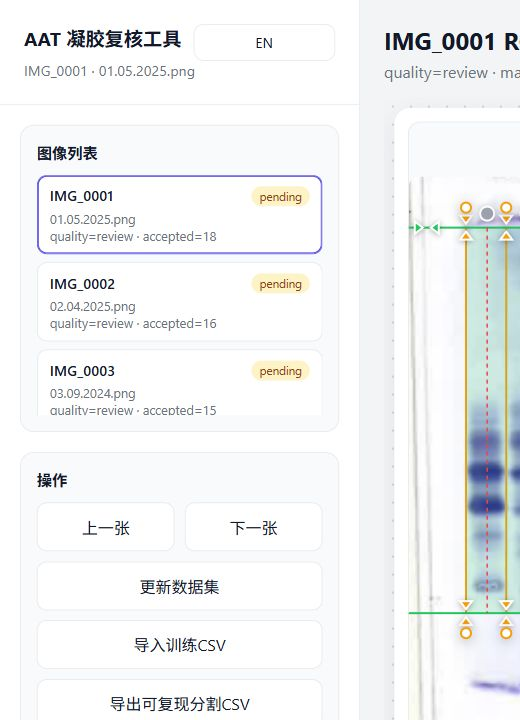
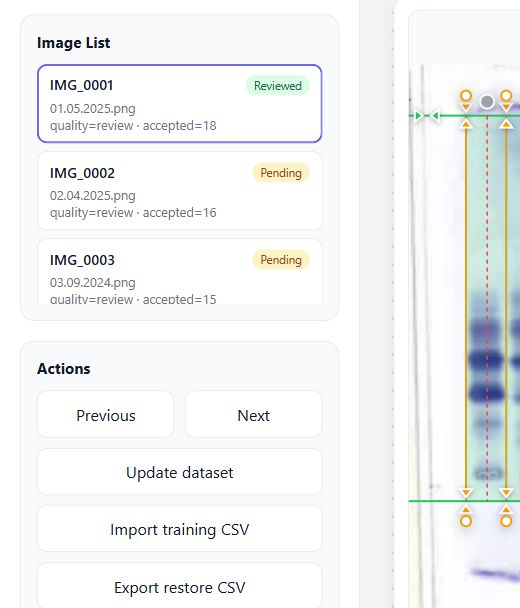
Use English README screenshots

diff --git a/README.md b/README.md
@@ -10,7 +10,7 @@ This repository contains the code, configuration, and documentation needed to ru
 - assigns stable `IMG_0001` style image IDs
 - generates vertical projection metadata
 - runs the v6 horizontal-ROI-aware lane boundary pipeline
-- serves a local FastAPI + static Web review interface
+- serves a local FastAPI and static Web review interface
 - lets users adjust shared ROI and lane boundaries
 - supports lane-level category annotation
 - exports reviewed geometry and training CSV files
@@ -60,41 +60,29 @@ python -m venv .venv
 .\.venv\Scripts\python.exe -m uvicorn app:app --app-dir Web --host 127.0.0.1 --port 8000
 ```
 
-## Screenshots / 界面截图
+## Screenshots
 
-The screenshots below show the internal research review workflow with real example gel images from the private project environment.
-
-以下截图展示 private 仓库内部协作场景下的真实凝胶图复核流程；原始图片仍不提交到 Git。
+The screenshots below show the internal research review workflow with real example gel images from the private project environment. Raw source images are still excluded from Git.
 
 ![Main review interface](docs/assets/screenshots/01-main-review-interface.png)
 
 Main review interface with the image list, automatic ROI, and lane boundary overlays.
 
-主复核界面包含图像列表、自动 ROI 区域和泳道边界叠加结果。
-
 ![Update dataset action](docs/assets/screenshots/02-update-dataset-action.png)
 
-The `更新数据集` action rescans local images and reruns the automatic v6 segmentation pipeline.
-
-`更新数据集` 会重新扫描本地图片，并重新运行 v6 自动分割流程。
+The `Update dataset` action rescans local images and reruns the automatic v6 segmentation pipeline.
 
 ![ROI and lane review](docs/assets/screenshots/03-roi-and-lane-review.png)
 
 ROI and lane overlays are reviewed visually before being accepted as training or restore data.
 
-ROI 和泳道边界需要经过人工目视复核后，再作为训练或复现数据使用。
-
 ![Lane annotation modal](docs/assets/screenshots/04-lane-annotation-modal.png)
 
 Clicking a lane opens the annotation modal for category entry and lane-level inspection.
 
-点击泳道后会打开标注窗口，用于填写 category 并检查单条泳道。
-
 ![Export review results](docs/assets/screenshots/05-export-review-results.png)
 
 Reviewed geometry and lane annotations can be saved and exported from the action panel.
-
-复核后的几何结果和泳道标注可以在操作区保存并导出。
 
 ## Adding Images
 
@@ -113,7 +101,7 @@ Reviewed geometry and lane annotations can be saved and exported from the action
    .bmp
    ```
 
-3. Open the Web tool and click `更新数据集`.
+3. Open the Web tool and click `Update dataset`.
 
 The update action rebuilds the inventory, creates conservative quality placeholders for new images, regenerates projection metadata, reruns v6 segmentation, and refreshes the Web image list.
 
@@ -137,7 +125,7 @@ These files are ignored by Git by default because they may contain research data
 
 ## Command-Line Pipeline
 
-The Web `更新数据集` button runs this sequence:
+The Web `Update dataset` button runs this sequence:
 
 ```text
 scripts/build_image_inventory.py
